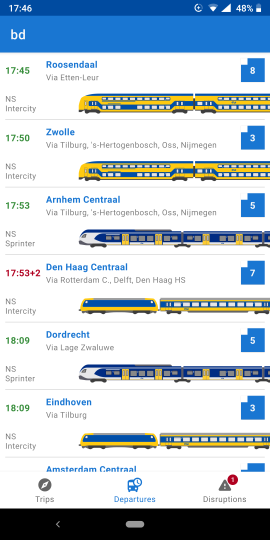
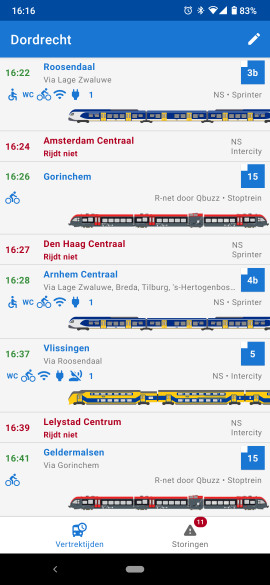
Update screenshots in README

diff --git a/README.md b/README.md
@@ -27,8 +27,6 @@ Experimental public transport Android app that showcases various Android archite
   * Dependency Injection using [Koin](https://insert-koin.io/)
 
 ## Screenshots of the app
-![Trips](/docs/screenshots/trips-1.png?raw=true "Trips")
 ![Departures](/docs/screenshots/departures-1.png?raw=true "Departures")
-![Departures](/docs/screenshots/departures-2.png?raw=true "Departures")
 ![Disruptions](/docs/screenshots/disruptions-1.png?raw=true "Disruptions")
 ![Disruptions](/docs/screenshots/disruptions-2.png?raw=true "Disruptions")
